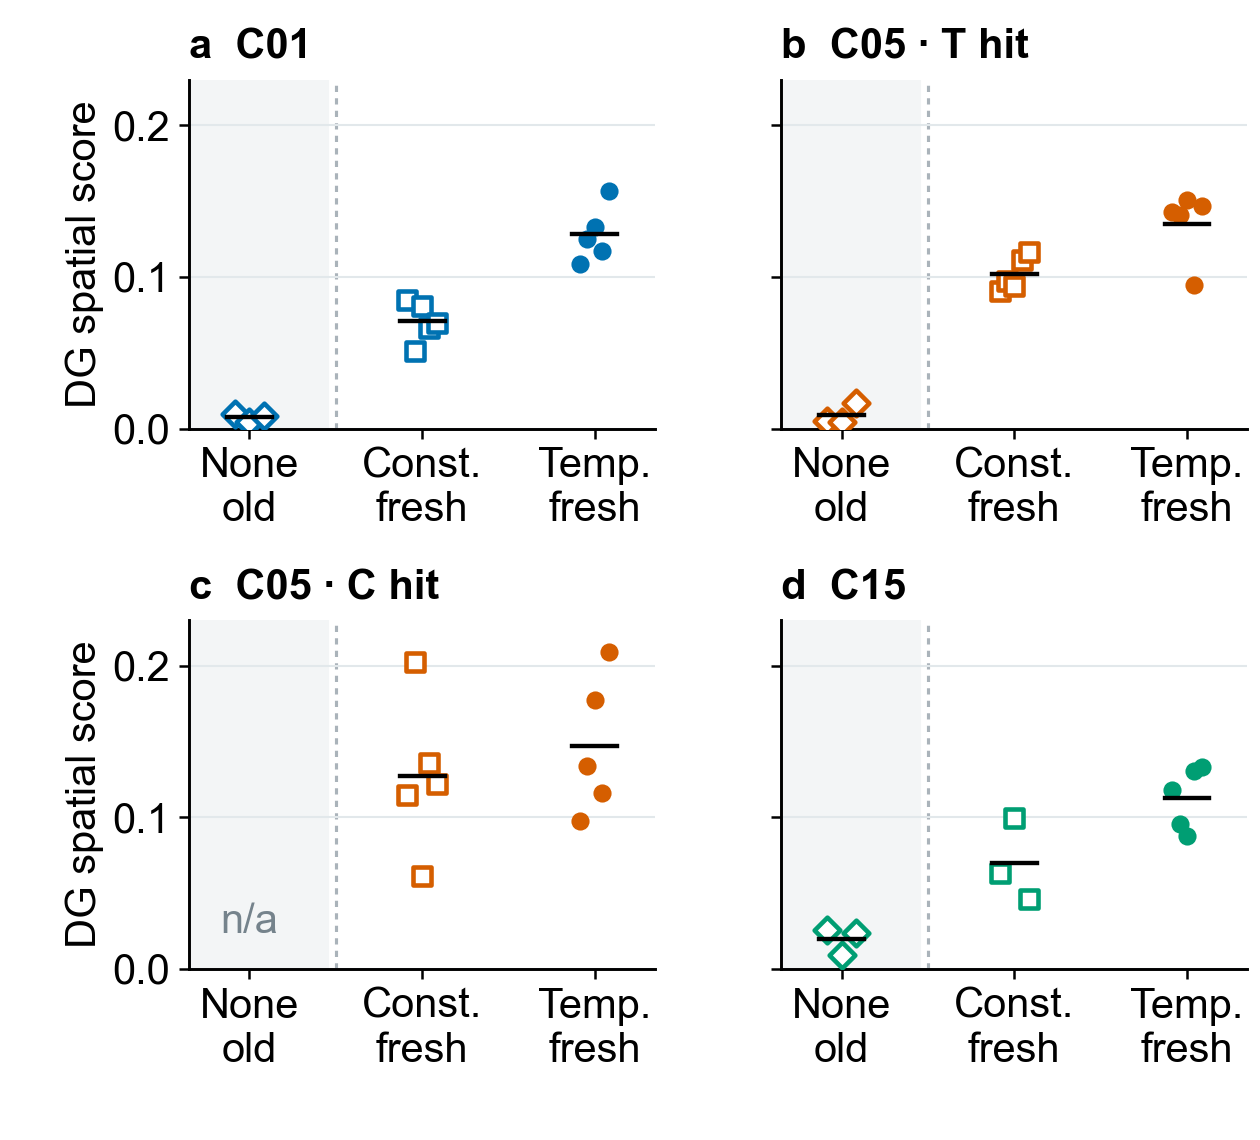
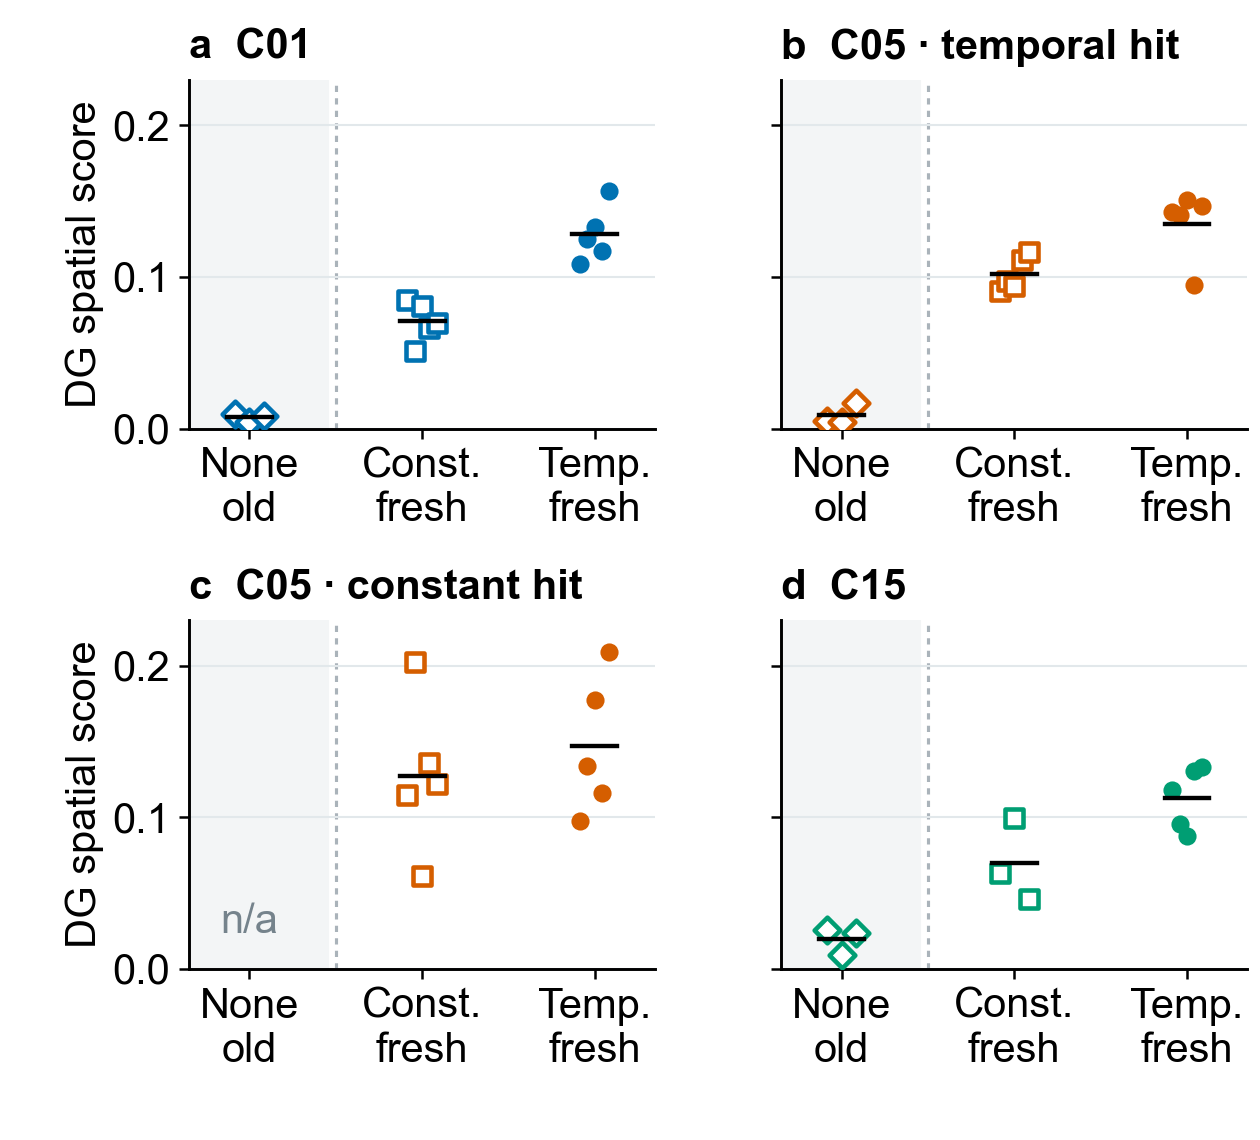
Clarify worker hit bonus labels in encoder figures

Changed region(s): [[0.7429, 0.0, 0.9595, 0.0614], [0.2786, 0.4912, 0.4643, 0.5526], [0.681, 0.0307, 0.7119, 0.0614]]

diff --git a/06_experiments/cosyne_2027/render_compact_figures.py b/06_experiments/cosyne_2027/render_compact_figures.py
@@ -390,7 +390,7 @@ def plot_encoder_original_values(data: pd.DataFrame, *, metric: str,
     fig.subplots_adjust(left=0.15, right=0.99, bottom=0.15, top=0.93,
                         wspace=0.27, hspace=0.55)
     cells = ("C01", "C05 · temporal hit", "C05 · constant hit", "C15")
-    labels = ("C01", "C05 · T hit", "C05 · C hit", "C15")
+    labels = ("C01", "C05 · temporal hit", "C05 · constant hit", "C15")
     minimums = {"C01": (3, 5, 5), "C05 · temporal hit": (3, 5, 5),
                 "C05 · constant hit": (0, 5, 5), "C15": (3, 3, 5)}
     for ax, cell, label, panel in zip(axes.flat, cells, labels, "abcd"):

diff --git a/06_experiments/cosyne_2027/03_encoder_credit.md b/06_experiments/cosyne_2027/03_encoder_credit.md
@@ -8,7 +8,7 @@
 
 [Editable SVG](../results/cosyne_2027_compact_figures/03_encoder_credit_original_values.svg) · [plotted original values and cohort labels](../results/cosyne_2027_compact_figures/03_encoder_credit_original_values.csv) · [same-layout map cosine](../results/cosyne_2027_compact_figures/03_encoder_map_cosine_original_values.svg) · [historical run table](../reward_credit/results/corrected_core_encoder_worker_20261010/common_panel_place_fields.csv) · [fresh run table](../results/cosyne_2027_checkpoint_fields/common_panel_analysis/shared_observation_fields.csv)
 
-The shaded no-credit position uses historical `NONE_STOP` checkpoints. The constant- and temporal-credit positions use the fresh COSYNE factorial. All were evaluated on the **same saved 10,001 observations and 242 visited bins** at approximately 100M frames. Dots are training runs, short black segments are means, and architecture sets hue. C05 T/C hit fixes temporal/constant worker hit bonus. No historical no-credit run had the C05 constant-hit setting, so that position is marked unavailable. The fresh C15 temporal arm has five absolute values, while its constant arm has three; only the three matched seeds enter the paired temporal-minus-constant result below.
+The shaded no-credit position uses historical `NONE_STOP` checkpoints. The constant- and temporal-credit positions use the fresh COSYNE factorial. All were evaluated on the **same saved 10,001 observations and 242 visited bins** at approximately 100M frames. Dots are training runs, short black segments are means, and architecture sets hue. The two C05 panels hold the worker's *hit bonus* fixed: the temporal bonus varies with the clipped temporal-distance signal at a commanded DG-detector hit, whereas the mean-matched constant bonus pays a fixed amount per hit. These panel titles describe the worker reward; the horizontal axis varies **encoder credit**. The temporal-distance signal is not simply elapsed time since the command, and a detector hit does not by itself establish physical arrival at a mapped location. No historical no-credit run had the C05 constant-hit setting, so that position is marked unavailable. The fresh C15 temporal arm has five absolute values, while its constant arm has three; only the three matched seeds enter the paired temporal-minus-constant result below.
 
 **Source boundary:** The vertical distance from historical no credit to either fresh arm is descriptive. The older positive-constant credit also had a different magnitude from the fresh mean-matched constant. The separate [historical constant-minus-no-credit $\Delta$ figure](../results/cosyne_2027_compact_figures/02_credit_presence.svg) supports the within-cohort credit-presence claim: removing credit lowers the common-panel spatial score in 13 of 14 paired C01/C05/C15 cells. C15 with zero worker bonus has two pairs; the other historical cells have three. These 14 cells reuse training seeds across worker arms. The [older factorial report](../reward_credit/corrected_core_encoder_worker_ablation_20261010.md#encoder-reward-fields-and-exposure) and [per-unit peak centers](../reward_credit/results/corrected_core_encoder_worker_20261010/common_panel_peak_centers_per_unit.csv) show why many distinct peak bins can coexist with weak firing. Low firing also limits interpretation of the historical no-credit [active-only map cosine](../results/cosyne_2027_compact_figures/03_encoder_map_cosine_original_values.svg).
 
